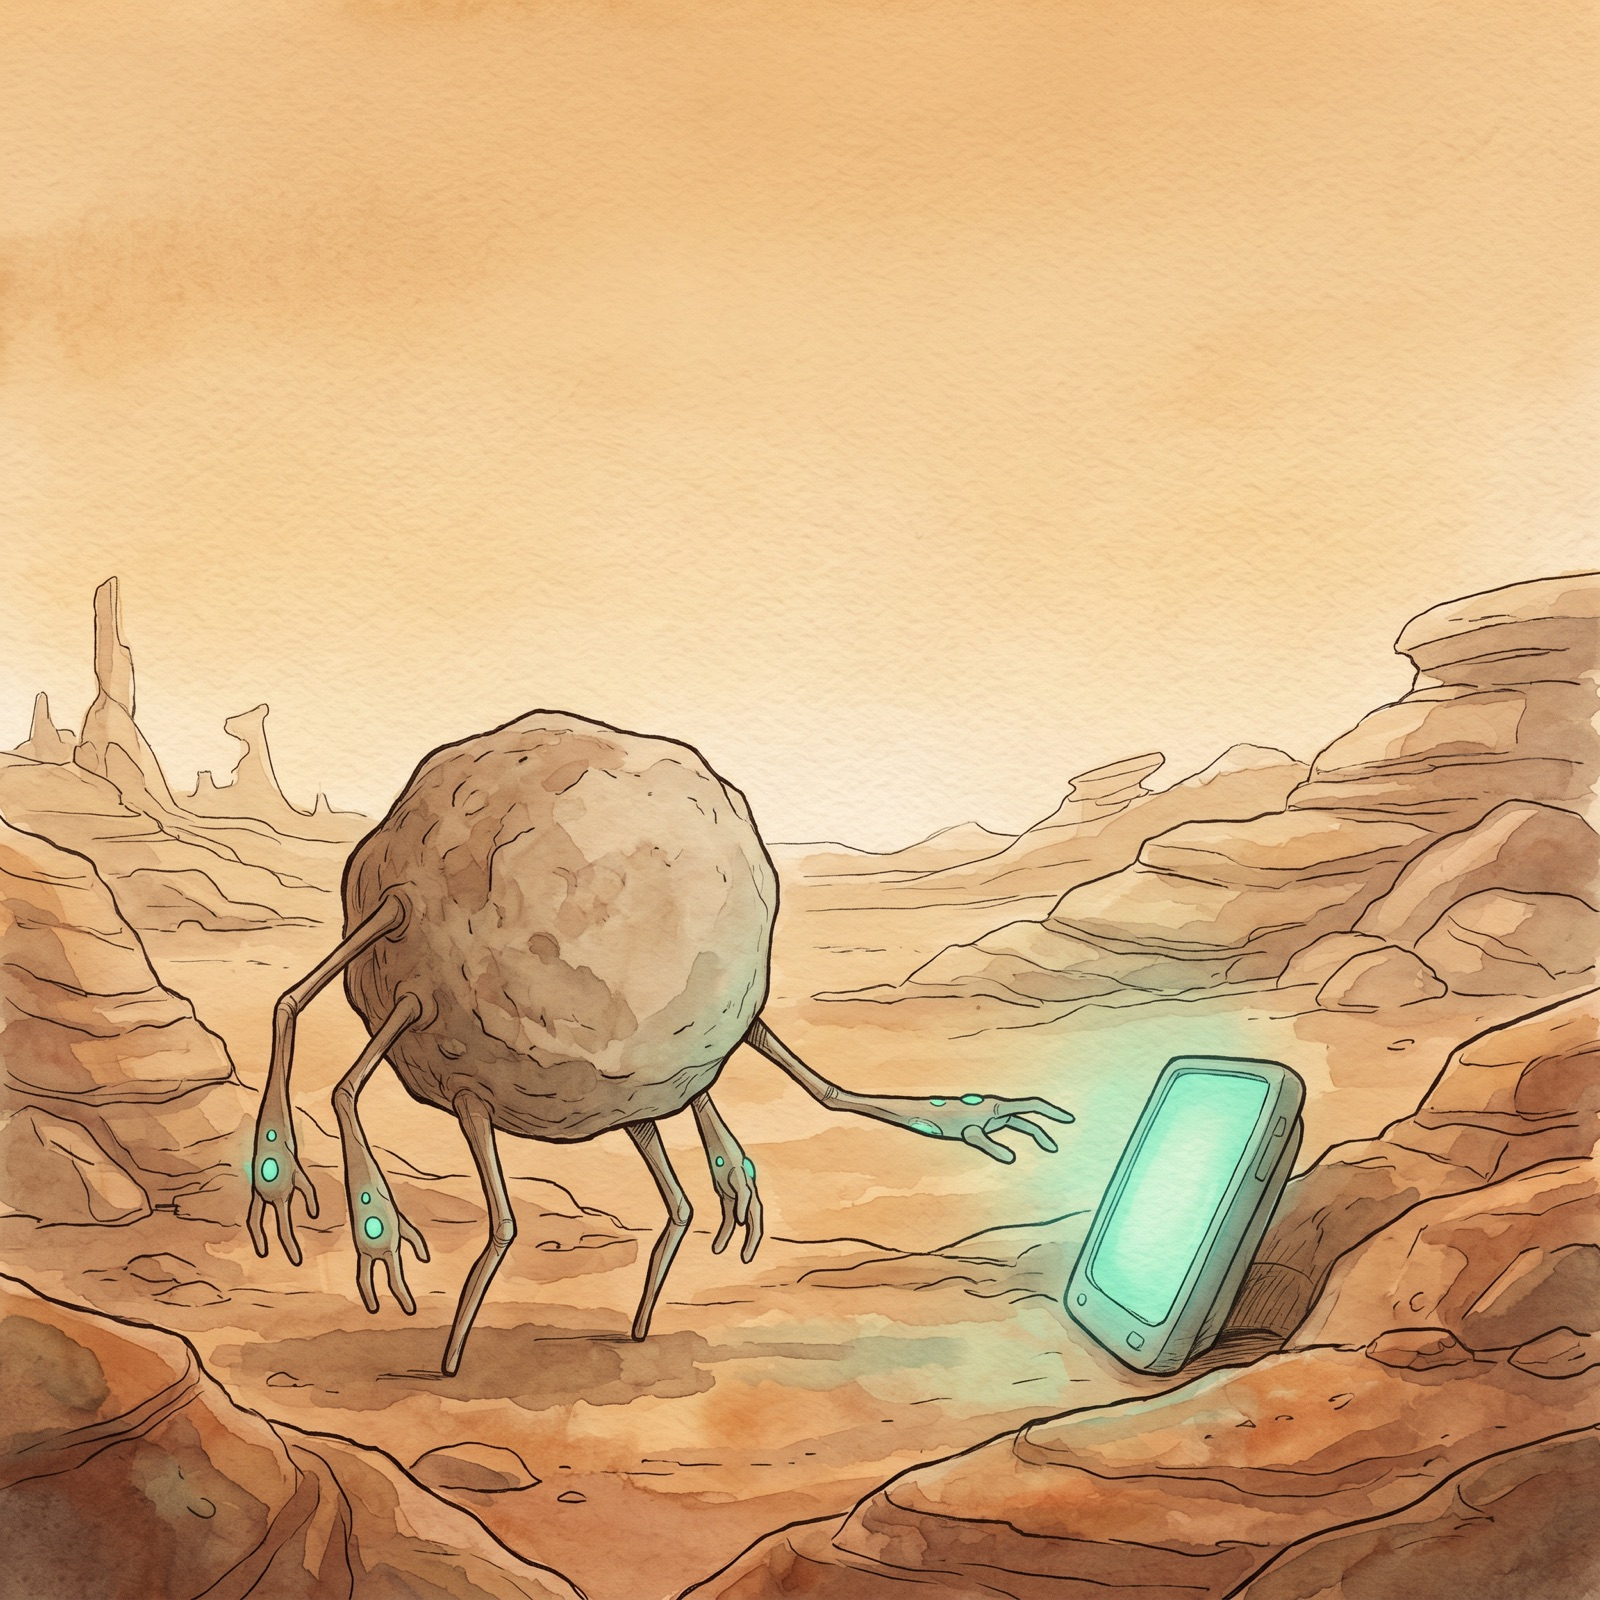
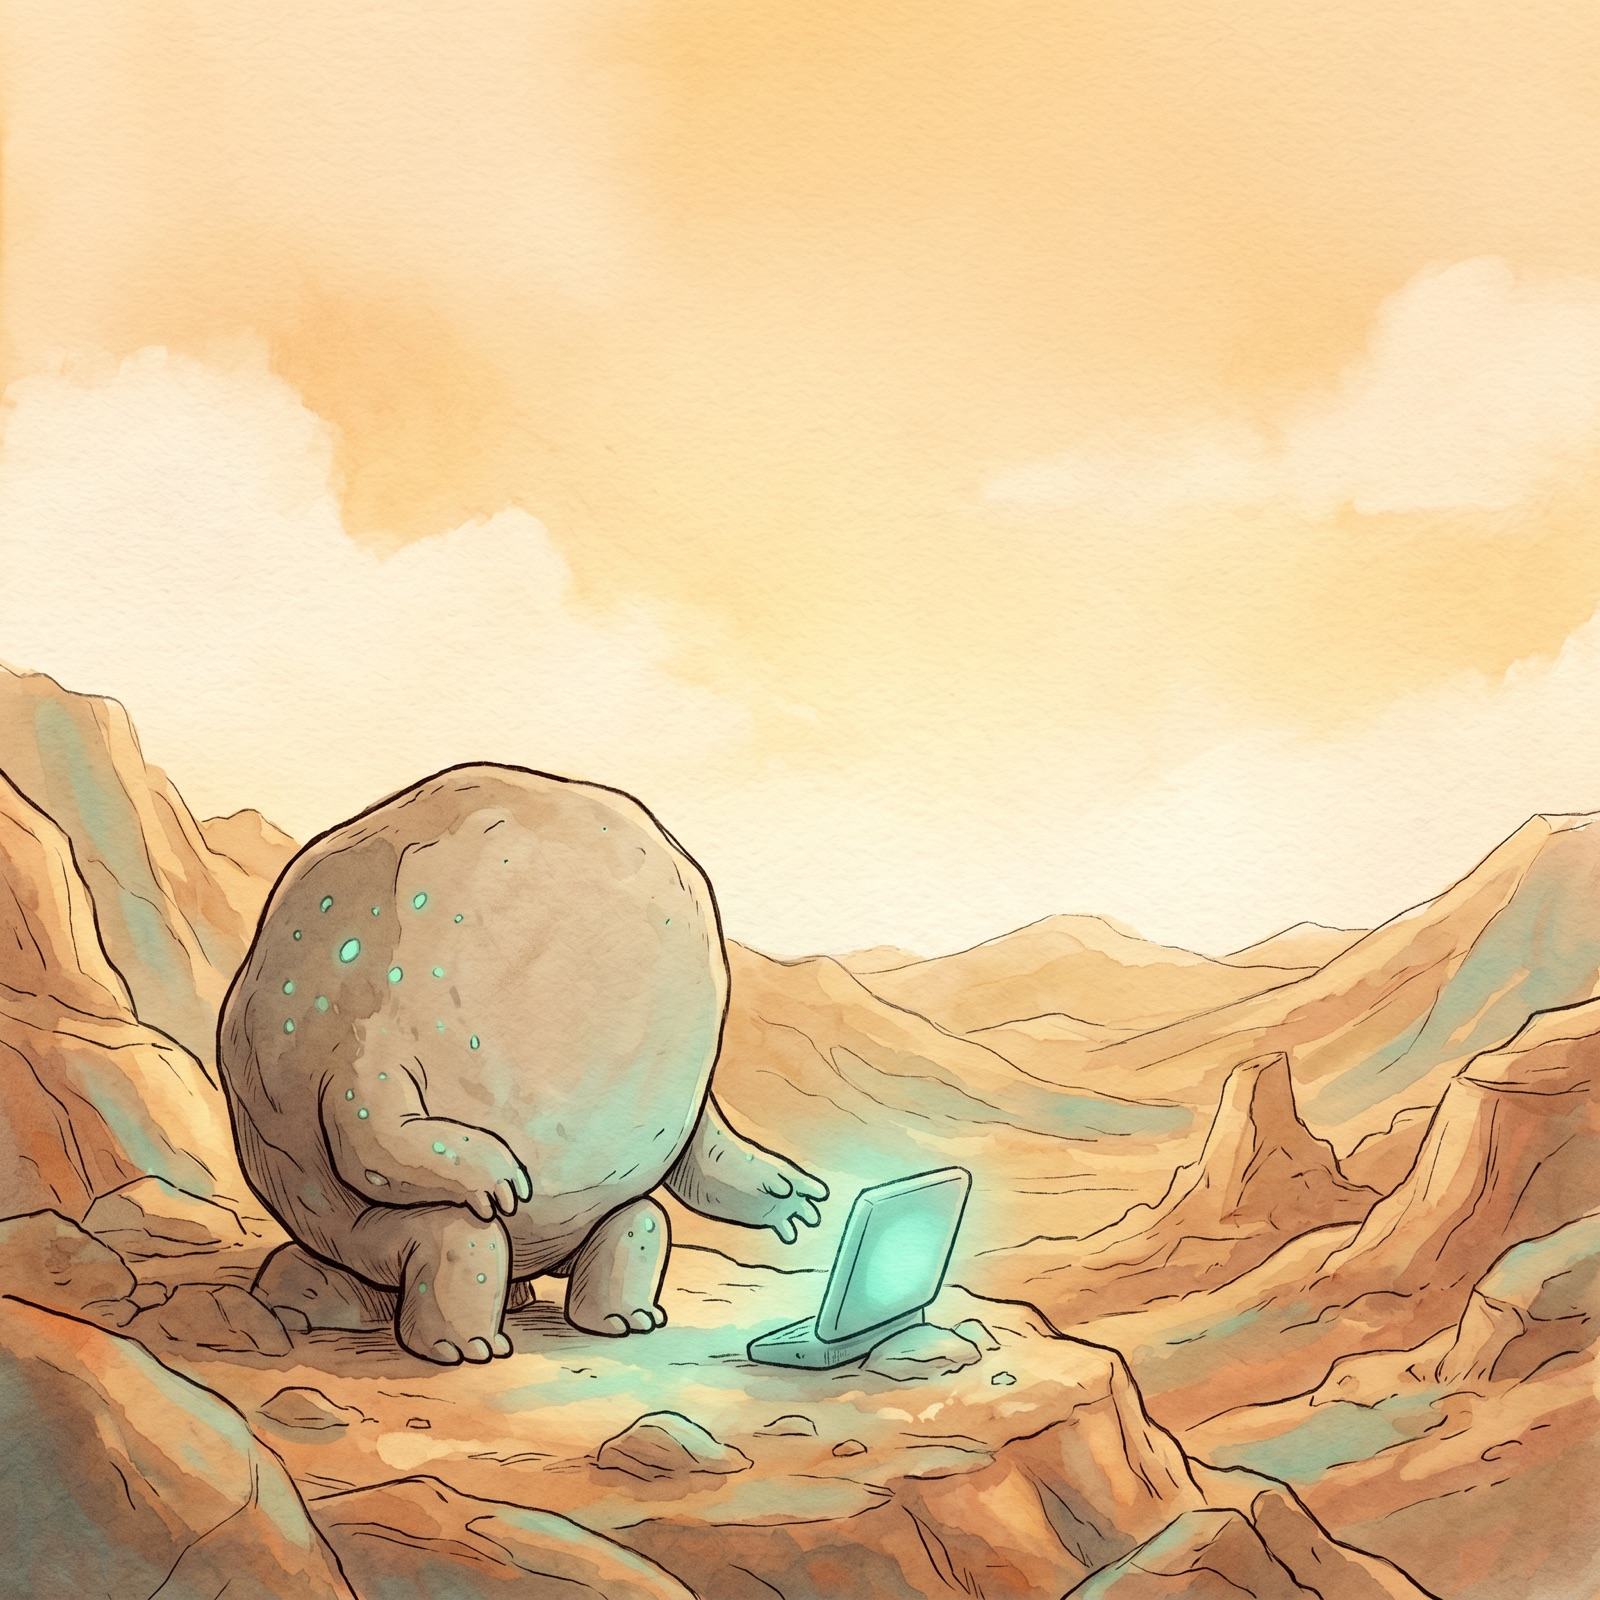
固化 Rocky 人设为项目级红线规则 + 过渡 hero
用户两次指出 hero 图违反人设（画成 4 腿 + 1 臂的蜘蛛态，应为
3 下肢 + 2 上肢、每肢 3 指、无脸），要求严格遵循、记为项目级 rules。

- CLAUDE.md 新增「美术规则：Rocky 人设（硬约束 / RULES）」红线条目
- 新建 docs/ROCKY_CANON.md：完整 checklist、历史踩坑、生图方法
- hero 暂用过渡图（更敦实、有 teal 斑、无脸、3 指，但第二条臂仍不够明显）
  替换掉原蜘蛛 bug 图；严格「双臂捧屏五肢」版在上游服务恢复后重生成再换

diff --git a/docs/ROCKY_CANON.md b/docs/ROCKY_CANON.md
@@ -1,0 +1,38 @@
+# Rocky 人设硬约束（Canon Rules）
+
+> 本文件是 **不可妥协的美术红线**。任何 Rocky 的生图 / 渲染 / 插画都必须逐条满足。
+> 违反任意一条都会让《挽救计划》读者立刻「出戏」。生成后必须**逐张核对**再采用。
+
+来源：《Project Hail Mary》原著 + `rocky_comic_demo`（IP 参考图 `concept_v2.png`，多姿势设定稿）。
+
+## 必须满足（checklist）
+
+- [ ] **身体**：单个圆润的石头 / boulder，敦实。
+- [ ] **无脸**：完全没有脸——无眼、无嘴、无任何五官（Rocky 是盲的，靠声音感知世界）。
+- [ ] **五肢（最关键 / 最易错）**：**恰好 5 条肢体**，且分配必须是
+      **3 条下肢（短腿）+ 2 条上肢（短臂）**。
+  - 下肢：3 条短腿在身体**下方**，像三脚架一样撑起圆身。
+  - 上肢：2 条短臂在身体**前方**用来够 / 捧东西。
+  - ❌ 不能 4 条腿；❌ 不能只画出 1 条手臂；❌ 不能 6 肢。
+- [ ] **手指**：每条肢体末端**恰好 3 根**短手指（手和脚都是 3 指 / 3 趾）。
+- [ ] **肢体形态**：短、粗壮、贴近身体；**不是**细长、蜘蛛、昆虫的腿。
+- [ ] **体表**：淡淡的 teal 青绿色荧光斑点散布在石身上。
+- [ ] **画风**：手绘水彩绘本——暖米色纸张、墨线勾边 + 柔和水彩 washes、teal 点缀。
+
+## 历史踩坑
+
+- ❌ **2026-06-01 hero 图**：被画成「4 条细长腿 + 1 条手臂」的蜘蛛态（错），用户两次打回。
+  根因：「Rocky 趴着伸一只手够电话」这种构图天然只用一只手 → 模型省略第二条臂、并把腿画成细长蜘蛛腿。
+
+## 生图方法（避免再错）
+
+1. **必带参考图**：Renoise material `#4676`（= `concept_v2.png` 设定稿）作 `ref_image`，
+   `#40470`（= `final_p07.png`）作风格参考。
+2. **选两臂必现的姿势**：让 Rocky **双臂在身前一起捧 / 扶着发光的 teal 电话屏**，3 条短腿在下成三脚架——
+   这样 2 臂 + 3 腿都清晰可数。避免「单手够远处的东西」。
+3. **prompt 里写死数量**：明确 "exactly 5 limbs = 3 short legs + 2 short arms, 3 fingers each;
+   short stocky limbs, NOT long/thin/spider-like; no face"，并加负向 "do NOT draw four legs / a spider"。
+4. **生成多张 + 逐张数**：一次生 3–5 张，逐张数肢体（3 腿？2 臂？每肢 3 指？无脸？）后再选用。
+5. 现成约束已写进 `gen_art.mjs` / `gen_hero.mjs` 的 `C` 常量，复用即可。
+
+参考图路径：`/Users/yangyihan/Downloads/rocky_comic_demo/concept_v2.png`

diff --git a/CLAUDE.md b/CLAUDE.md
@@ -57,3 +57,17 @@ If you have the `building-edgespark-apps` skill installed, use its references:
 - **Always** check `server-patterns.md` when writing server-side code
 - **Always** check `web-patterns.md` when writing frontend code with `@edgespark/web`
 - **Always** check `auth-patterns.md` when configuring auth providers (OAuth, email/password)
+
+## 美术规则：Rocky 人设（硬约束 / RULES）
+
+> 任何 Rocky 的生图、渲染、插画都**必须**严格遵守以下设定。违反会让粉丝立刻出戏 —— 这是不可妥协的红线。详见 [docs/ROCKY_CANON.md](docs/ROCKY_CANON.md)。
+
+- **身体**：单个圆润的石头 / boulder。
+- **无脸**：完全没有脸 —— 无眼、无嘴、无五官（他是盲的，靠声音感知）。
+- **五肢（最关键，最易错）**：**恰好 5 条肢** = **3 条下肢（短腿，在身下成三脚架支撑）** + **2 条上肢（短臂，在身体前方）**。绝不能是 4 条腿，也绝不能只画 1 条手臂。
+- **手指**：每条肢体末端**恰好 3 根短手指**。
+- **形态**：短而敦实、贴近身体；**不要细长 / 蜘蛛 / 昆虫态**。
+- **体表**：淡淡的 teal 青绿色荧光斑点。
+- **画风**：手绘水彩绘本（暖米色纸张 + 墨线 + 水彩 washes + teal 点缀）。
+
+**生图要求**：每次都附 IP 参考图（Renoise material `#4676` = `rocky_comic_demo/concept_v2.png`）+ 风格参考 `#40470`。最易出错的是把第二条手臂省略掉 → 用「Rocky 双臂在身前一起捧着发光电话屏、三腿在下」这类**两臂都必须出现**的姿势，并生成多张、逐张数肢体后再选用。脚本见 `../gen_art.mjs` / `../gen_hero.mjs`。